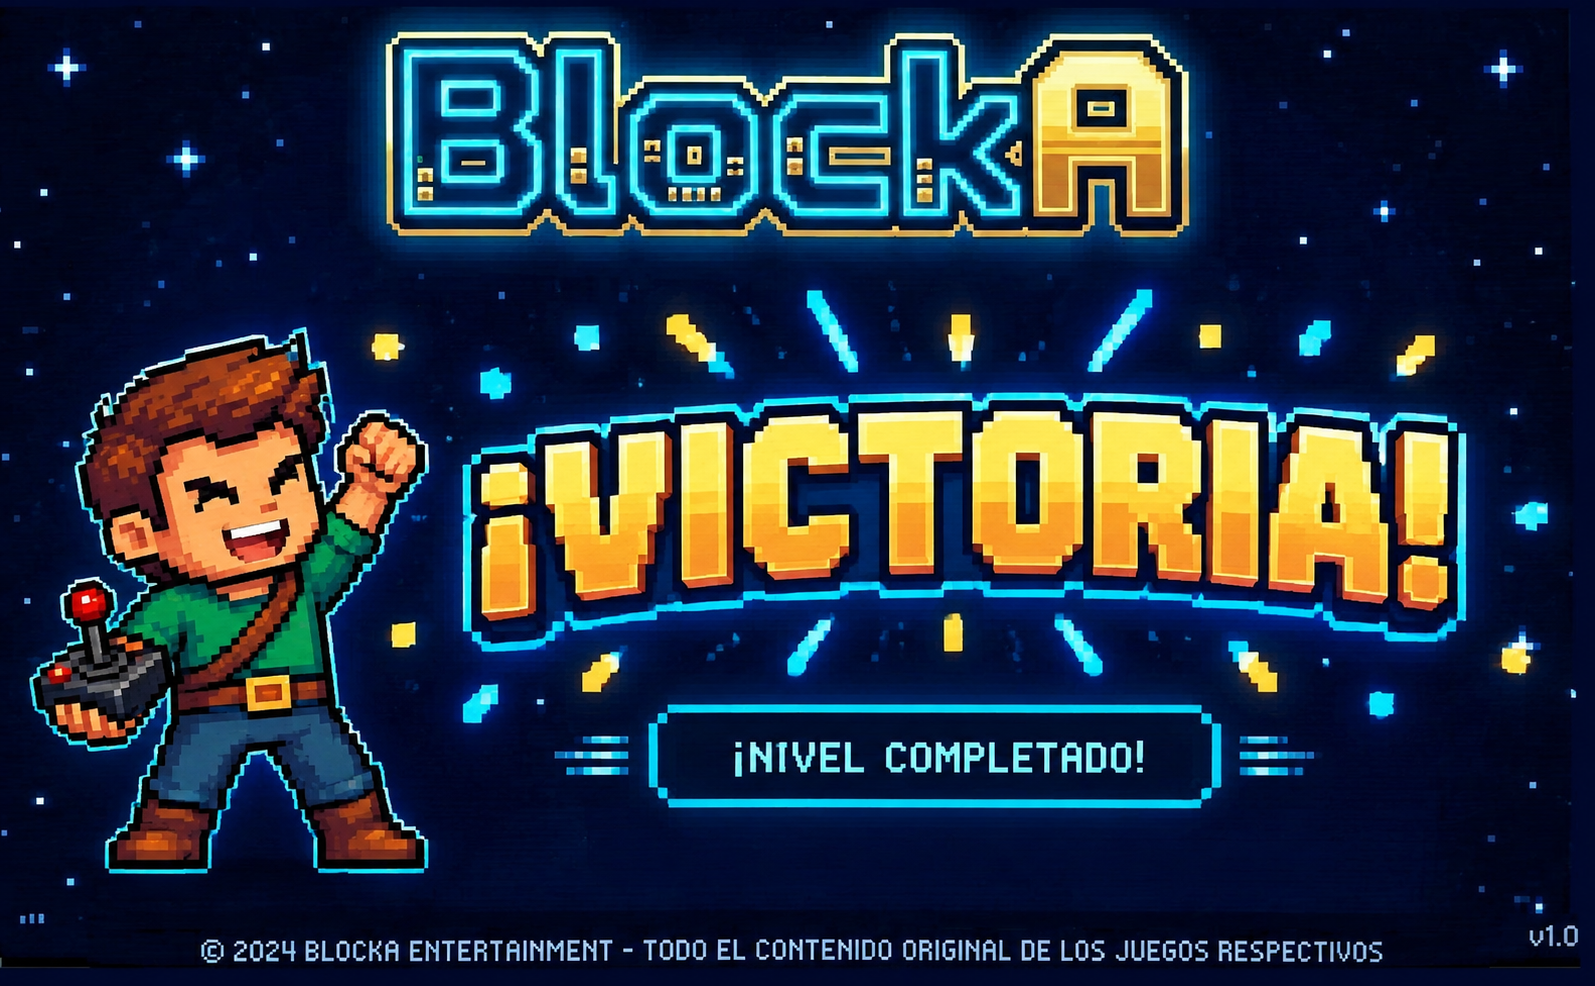
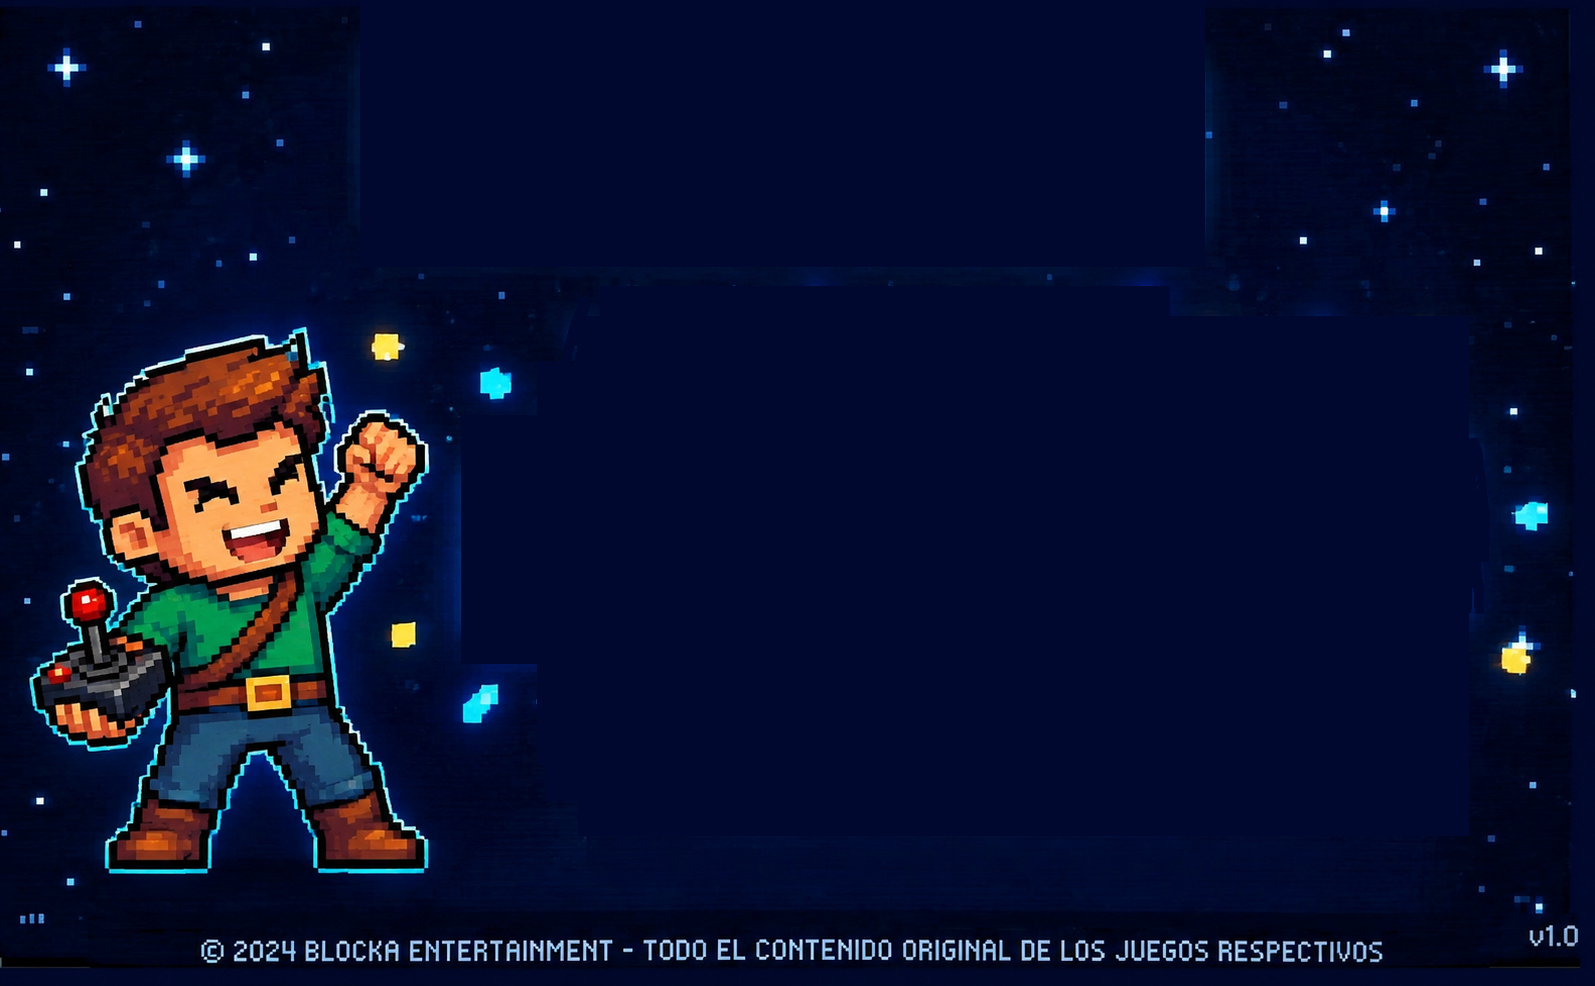
mas avances canvas

Changed region(s): [[0.215, 0.0, 0.9524, 0.8519]]

diff --git a/TPE Parte 3/js/script.js b/TPE Parte 3/js/script.js
@@ -329,7 +329,7 @@ const estadoJuego = {
   filtrosDisponibles: ['grises', 'brillo', 'negativo'],
   juegoTerminado: false,
   cantPartes: 4,          // 4, 6 u 8 partes
-  offsetLeft: 50,
+  offsetLeft: 250,
   offsetTop: 50,
   anchoTablero: 600,
   altoTablero: 500
@@ -499,8 +499,8 @@ function comprobarVictoria() {
       const ctxPieza = pieza.canvasPropio.getContext('2d');
       ctxPieza.putImageData(pieza.imgDataOriginal, 0, 0);
     });
-
     dibujarJuego();
+    document.querySelector('.game-cover').src = "img/blockA_victoria.png";
     setTimeout(() => alert("¡Nivel superado!"), 200);
   }
 }
